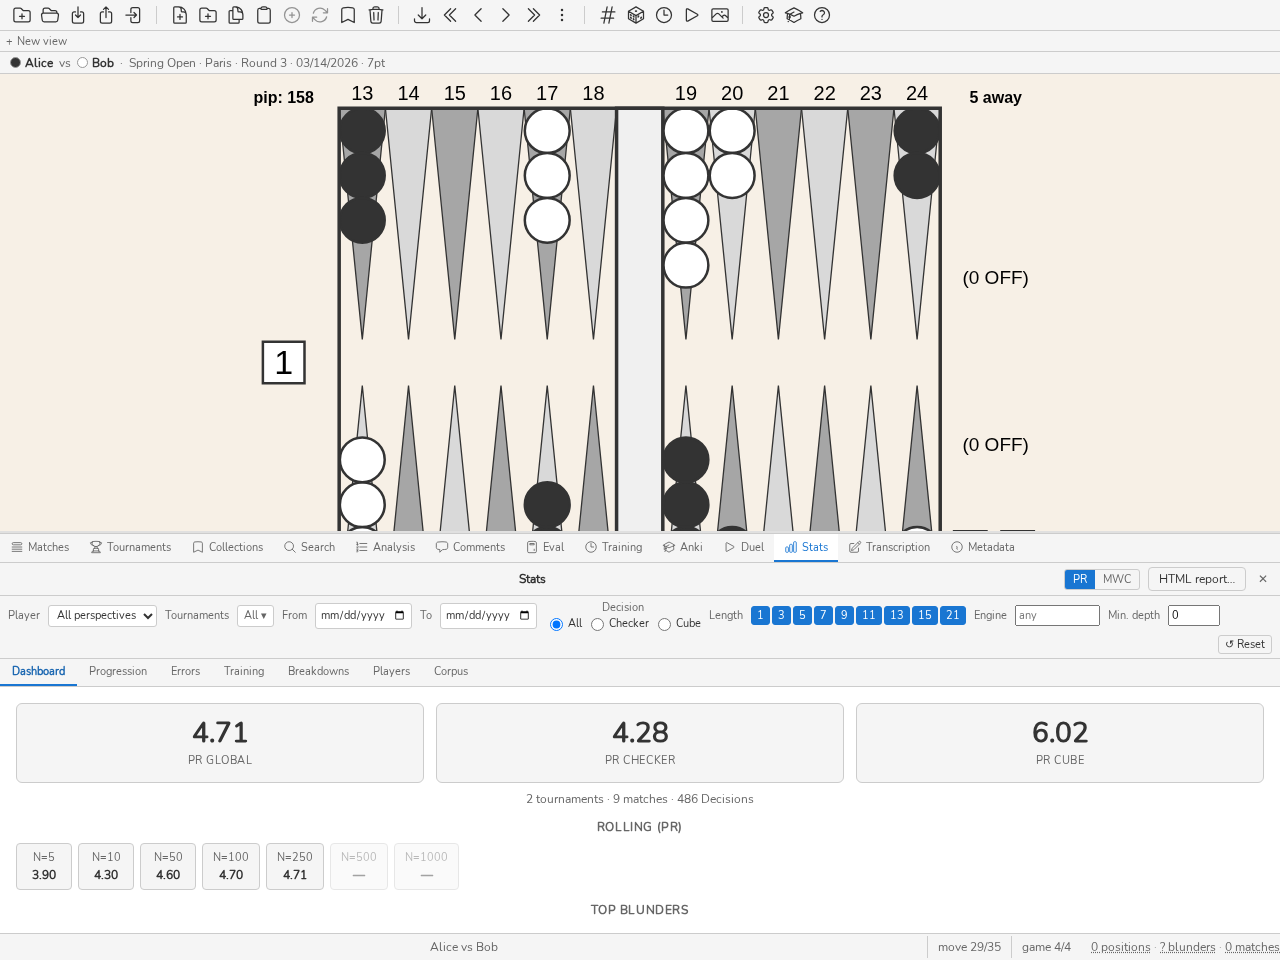
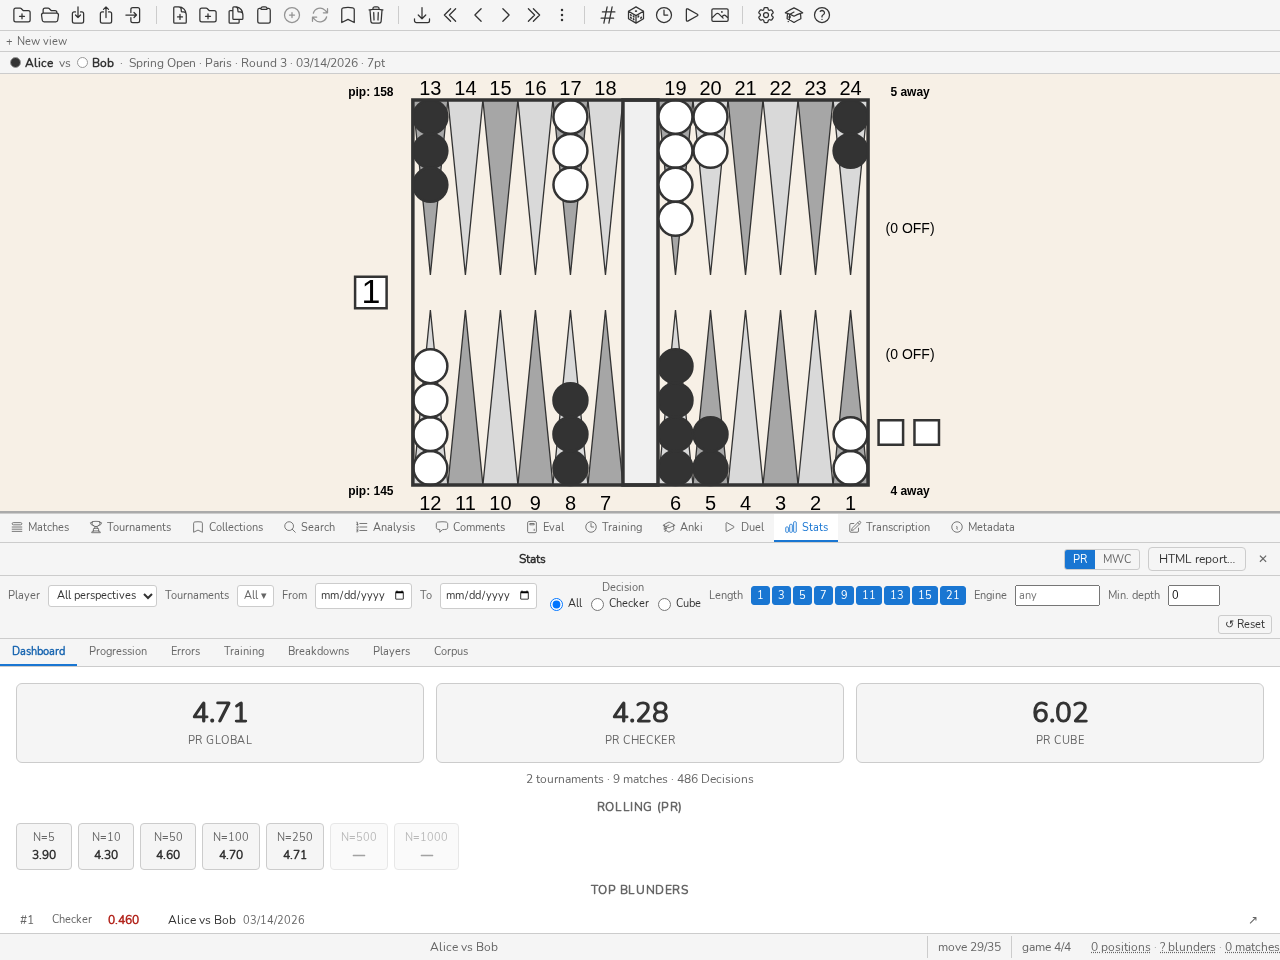
docs(release): captures Stats de 0.38.0 sous le panneau à hauteur unique
Le panneau garde une hauteur pour tous les onglets ; à la hauteur par
défaut, le tableau de bord Stats ne montrait que sa première rangée. La
spec de capture lève la poignée pour les trois captures Stats, puis la
remet, et fait remesurer le plateau après chaque glissement.

diff --git a/frontend/tests/e2e/screenshot-panels.spec.js b/frontend/tests/e2e/screenshot-panels.spec.js
@@ -31,6 +31,25 @@ import { captureAndOptimise } from './helpers/screenshotTools.js';
 const IMG_DIR = path.resolve(path.dirname(fileURLToPath(import.meta.url)), '../../../doc/source/img');
 const MAX_BYTES = 500 * 1024;
 const VIEWPORT = { width: 1280, height: 960 };
+const STATS_EXTRA_HEIGHT = 140;
+
+async function panelHandleY(page) {
+    const box = await page.locator('.resize-handle').boundingBox();
+    return box.y + box.height / 2;
+}
+
+async function dragPanelHandleTo(page, targetY) {
+    const box = await page.locator('.resize-handle').boundingBox();
+    const x = box.x + box.width / 2;
+    await page.mouse.move(x, box.y + box.height / 2);
+    await page.mouse.down();
+    await page.mouse.move(x, targetY, { steps: 5 });
+    await page.mouse.up();
+    // The handle fires its resize event before Svelte applies the new height,
+    // so the board measures the box of the previous step: measure it again.
+    await page.evaluate(() => window.dispatchEvent(new Event('resize')));
+    await page.waitForTimeout(100);
+}
 
 test.skip(!process.env.SCREENSHOT, 'Capture documentaire : lancer avec SCREENSHOT=1');
 
@@ -115,7 +134,12 @@ test('galerie de captures panneau par panneau', async ({ page }) => {
     // 6-8. Panneau Stats — Dashboard, Erreurs, Joueurs. Chart.js anime
     // l'entrée des barres (~1s) : un court délai après l'affichage du
     // conteneur évite de capturer une barre encore en train de grandir.
+    // Every tab shares one panel height, and the default one hides the
+    // dashboard below its first row: the handle is raised for these three
+    // captures only, then put back for the panels that follow.
     await clickTab(page, 'stats');
+    const handleY = await panelHandleY(page);
+    await dragPanelHandleTo(page, handleY - STATS_EXTRA_HEIGHT);
     await expect(page.locator('.cards-grid')).toBeVisible();
     await page.waitForTimeout(800);
     await capture('stats_dashboard');
@@ -128,6 +152,7 @@ test('galerie de captures panneau par panneau', async ({ page }) => {
     await page.getByRole('tab', { name: 'Players' }).click();
     await expect(page.locator('.players-tab')).toBeVisible();
     await capture('stats_players');
+    await dragPanelHandleTo(page, handleY);
 
     // 9. Panneau Anki — liste des paquets.
     await clickTab(page, 'anki');
